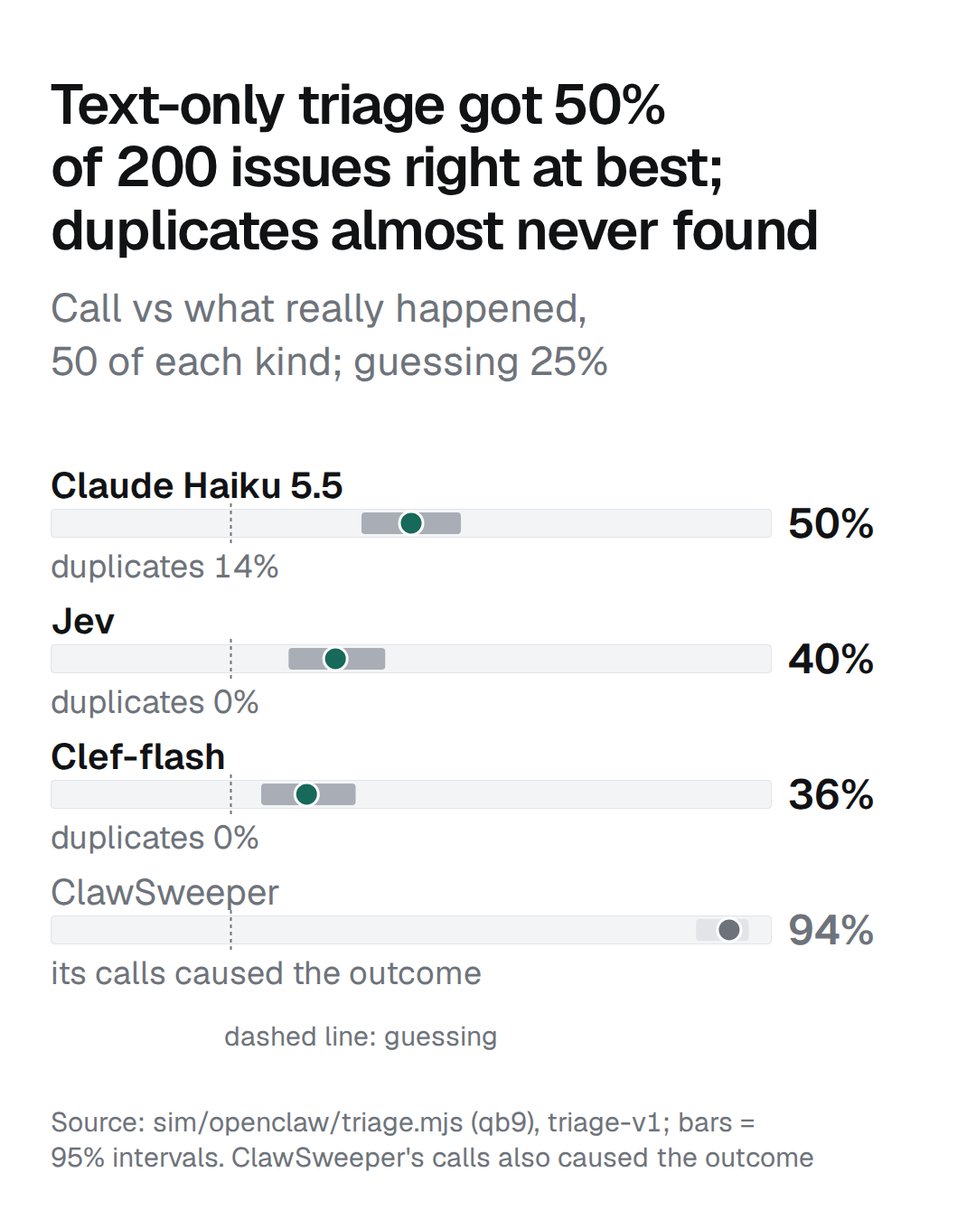
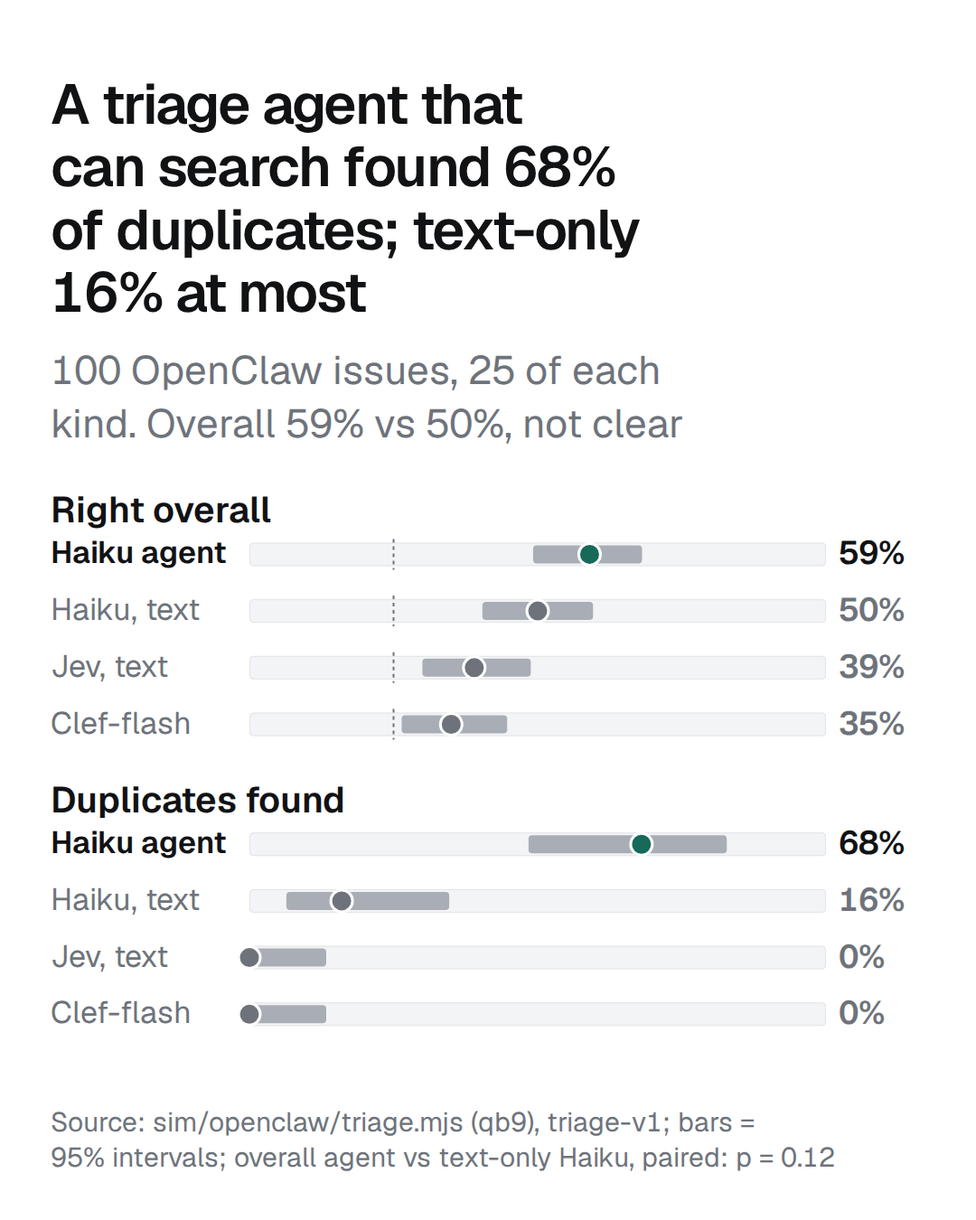
OpenClaw triage chart: like for like on the agent's 100 issues (on_agent_subset)
Headline the solid part: the searching agent found 68% of duplicates vs 16% at most for
text-only triage; overall 59% vs 50% is shown as not a clear difference (paired p = 0.12).

diff --git a/docs/openclaw/charts/index.html b/docs/openclaw/charts/index.html
@@ -56,10 +56,10 @@ footer { margin-top: 56px; color: var(--dim); font-size: 13px; }
 <p class="files">Source: docs/openclaw/data/breaks-summary.json. Files: <a href="openclaw-breaks-1920x1080-dark.png">1920x1080 dark</a> <a href="openclaw-breaks-1920x1080-light.png">1920x1080 light</a> <a href="openclaw-breaks-1080x1350-dark.png">1080x1350 dark</a> <a href="openclaw-breaks-1080x1350-light.png">1080x1350 light</a></p></details>
 </section>
 <section id="openclaw-triage" aria-labelledby="openclaw-triage-h">
-<h2 id="openclaw-triage-h" hidden>Text-only triage got 50% of 200 OpenClaw issues right at best; duplicates were almost never found</h2>
-<div class="L"><svg xmlns="http://www.w3.org/2000/svg" style="aspect-ratio:1920/1080" viewBox="0 0 1920 1080" role="img" aria-label="Text-only triage got 50% of 200 OpenClaw issues right at best; duplicates were almost never found" font-family="Geist, 'Instrument Sans', system-ui, sans-serif"><rect width="1920" height="1080" fill="var(--bg)"/><text x="160" y="154.4" font-size="64" font-weight="600" fill="var(--fg)" letter-spacing="-1.6" style="font-variant-numeric:tabular-nums">Text-only triage got 50% of 200 OpenClaw issues right at</text><text x="160" y="226.08" font-size="64" font-weight="600" fill="var(--fg)" letter-spacing="-1.6" style="font-variant-numeric:tabular-nums">best; duplicates were almost never found</text><text x="160" y="302.08000000000004" font-size="40" font-weight="400" fill="var(--dim)" style="font-variant-numeric:tabular-nums">Call vs what really happened (duplicate, close, fix, decision: 50 each); guessing gets 25%</text><text x="160" y="403.48" font-size="40" font-weight="600" fill="var(--fg)" style="font-variant-numeric:tabular-nums">Claude Haiku 5.5</text><rect x="580" y="372.08000000000004" width="640" height="32" rx="4" fill="var(--card)"/><rect x="580.5" y="372.58000000000004" width="639" height="31" rx="4" fill="none" stroke="var(--line)"/><line x1="740" x2="740" y1="366.08000000000004" y2="410.08000000000004" stroke="var(--dim)" stroke-width="2" stroke-dasharray="4 4"/><rect x="855.8399999999999" y="376.08000000000004" width="88.31999999999996" height="24" rx="4" fill="var(--bar)"><title>Claude Haiku 5.5: 50% (43-57%)</title></rect><circle cx="900" cy="388.08000000000004" r="13" fill="var(--acc)" stroke="var(--bg)" stroke-width="3"/><text x="1238" y="402.78000000000003" font-size="42" font-weight="600" fill="var(--fg)" style="font-variant-numeric:tabular-nums">50%</text><text x="1360" y="399.98" font-size="34" font-weight="400" fill="var(--dim)" style="font-variant-numeric:tabular-nums">duplicates 14%</text><text x="160" y="511.48" font-size="40" font-weight="600" fill="var(--fg)" style="font-variant-numeric:tabular-nums">Jev</text><rect x="580" y="480.08000000000004" width="640" height="32" rx="4" fill="var(--card)"/><rect x="580.5" y="480.58000000000004" width="639" height="31" rx="4" fill="none" stroke="var(--line)"/><line x1="740" x2="740" y1="474.08000000000004" y2="518.08" stroke="var(--dim)" stroke-width="2" stroke-dasharray="4 4"/><rect x="791.2" y="484.08000000000004" width="85.76" height="24" rx="4" fill="var(--bar)"><title>Jev: 40% (33-46%)</title></rect><circle cx="832.8" cy="496.08000000000004" r="13" fill="var(--acc)" stroke="var(--bg)" stroke-width="3"/><text x="1238" y="510.78000000000003" font-size="42" font-weight="600" fill="var(--fg)" style="font-variant-numeric:tabular-nums">40%</text><text x="1360" y="507.98" font-size="34" font-weight="400" fill="var(--dim)" style="font-variant-numeric:tabular-nums">duplicates 0%</text><text x="160" y="619.48" font-size="40" font-weight="600" fill="var(--fg)" style="font-variant-numeric:tabular-nums">Clef-flash</text><rect x="580" y="588.08" width="640" height="32" rx="4" fill="var(--card)"/><rect x="580.5" y="588.58" width="639" height="31" rx="4" fill="none" stroke="var(--line)"/><line x1="740" x2="740" y1="582.08" y2="626.08" stroke="var(--dim)" stroke-width="2" stroke-dasharray="4 4"/><rect x="766.88" y="592.08" width="83.84" height="24" rx="4" fill="var(--bar)"><title>Clef-flash: 36% (29-42%)</title></rect><circle cx="807.2" cy="604.08" r="13" fill="var(--acc)" stroke="var(--bg)" stroke-width="3"/><text x="1238" y="618.7800000000001" font-size="42" font-weight="600" fill="var(--fg)" style="font-variant-numeric:tabular-nums">36%</text><text x="1360" y="615.98" font-size="34" font-weight="400" fill="var(--dim)" style="font-variant-numeric:tabular-nums">duplicates 0%</text><text x="160" y="727.48" font-size="40" font-weight="400" fill="var(--dim)" style="font-variant-numeric:tabular-nums">ClawSweeper</text><rect x="580" y="696.08" width="640" height="32" rx="4" fill="var(--card)"/><rect x="580.5" y="696.58" width="639" height="31" rx="4" fill="none" stroke="var(--line)"/><line x1="740" x2="740" y1="690.08" y2="734.08" stroke="var(--dim)" stroke-width="2" stroke-dasharray="4 4"/><rect x="1152.8" y="700.08" width="46.71999999999997" height="24" rx="4" fill="var(--line)"><title>ClawSweeper: 94% (90-97%)</title></rect><circle cx="1182.24" cy="712.08" r="13" fill="var(--dim)" stroke="var(--bg)" stroke-width="3"/><text x="1238" y="726.7800000000001" font-size="42" font-weight="600" fill="var(--dim)" style="font-variant-numeric:tabular-nums">94%</text><text x="1360" y="723.98" font-size="34" font-weight="400" fill="var(--dim)" style="font-variant-numeric:tabular-nums">its calls caused the outcome</text><text x="732" y="764.08" font-size="26" font-weight="400" fill="var(--dim)" style="font-variant-numeric:tabular-nums">dashed line: guessing</text><text x="160" y="840" font-size="26" font-weight="400" fill="var(--dim)" style="font-variant-numeric:tabular-nums">Source: sim/openclaw/triage.mjs (qb9), triage-v1; bars = 95% intervals. ClawSweeper's calls also caused the outcome</text></svg></div><div class="P"><svg xmlns="http://www.w3.org/2000/svg" style="aspect-ratio:1080/1350" viewBox="0 0 1080 1350" role="img" aria-label="Text-only triage got 50% of 200 OpenClaw issues right at best; duplicates were almost never found" font-family="Geist, 'Instrument Sans', system-ui, sans-serif"><rect width="1080" height="1350" fill="var(--bg)"/><text x="56" y="136.7" font-size="62" font-weight="600" fill="var(--fg)" letter-spacing="-1.6" style="font-variant-numeric:tabular-nums">Text-only triage got 50%</text><text x="56" y="206.14" font-size="62" font-weight="600" fill="var(--fg)" letter-spacing="-1.6" style="font-variant-numeric:tabular-nums">of 200 issues right at best;</text><text x="56" y="275.58000000000004" font-size="62" font-weight="600" fill="var(--fg)" letter-spacing="-1.6" style="font-variant-numeric:tabular-nums">duplicates almost never found</text><text x="56" y="355.58000000000004" font-size="44" font-weight="400" fill="var(--dim)" style="font-variant-numeric:tabular-nums">Call vs what really happened,</text><text x="56" y="414.98" font-size="44" font-weight="400" fill="var(--dim)" style="font-variant-numeric:tabular-nums">50 of each kind; guessing 25%</text><text x="56" y="550.98" font-size="40" font-weight="600" fill="var(--fg)" style="font-variant-numeric:tabular-nums">Claude Haiku 5.5</text><rect x="56" y="562.98" width="798" height="32" rx="4" fill="var(--card)"/><rect x="56.5" y="563.48" width="797" height="31" rx="4" fill="none" stroke="var(--line)"/><line x1="255.5" x2="255.5" y1="556.98" y2="600.98" stroke="var(--dim)" stroke-width="2" stroke-dasharray="4 4"/><rect x="399.938" y="566.98" width="110.12399999999997" height="24" rx="4" fill="var(--bar)"><title>Claude Haiku 5.5: 50% (43-57%)</title></rect><circle cx="455" cy="578.98" r="13" fill="var(--acc)" stroke="var(--bg)" stroke-width="3"/><text x="872" y="595.08" font-size="46" font-weight="600" fill="var(--fg)" style="font-variant-numeric:tabular-nums">50%</text><text x="56" y="638.98" font-size="36" font-weight="400" fill="var(--dim)" style="font-variant-numeric:tabular-nums">duplicates 14%</text><text x="56" y="700.98" font-size="40" font-weight="600" fill="var(--fg)" style="font-variant-numeric:tabular-nums">Jev</text><rect x="56" y="712.98" width="798" height="32" rx="4" fill="var(--card)"/><rect x="56.5" y="713.48" width="797" height="31" rx="4" fill="none" stroke="var(--line)"/><line x1="255.5" x2="255.5" y1="706.98" y2="750.98" stroke="var(--dim)" stroke-width="2" stroke-dasharray="4 4"/><rect x="319.34000000000003" y="716.98" width="106.932" height="24" rx="4" fill="var(--bar)"><title>Jev: 40% (33-46%)</title></rect><circle cx="371.21000000000004" cy="728.98" r="13" fill="var(--acc)" stroke="var(--bg)" stroke-width="3"/><text x="872" y="745.08" font-size="46" font-weight="600" fill="var(--fg)" style="font-variant-numeric:tabular-nums">40%</text><text x="56" y="788.98" font-size="36" font-weight="400" fill="var(--dim)" style="font-variant-numeric:tabular-nums">duplicates 0%</text><text x="56" y="850.98" font-size="40" font-weight="600" fill="var(--fg)" style="font-variant-numeric:tabular-nums">Clef-flash</text><rect x="56" y="862.98" width="798" height="32" rx="4" fill="var(--card)"/><rect x="56.5" y="863.48" width="797" height="31" rx="4" fill="none" stroke="var(--line)"/><line x1="255.5" x2="255.5" y1="856.98" y2="900.98" stroke="var(--dim)" stroke-width="2" stroke-dasharray="4 4"/><rect x="289.01599999999996" y="866.98" width="104.53800000000001" height="24" rx="4" fill="var(--bar)"><title>Clef-flash: 36% (29-42%)</title></rect><circle cx="339.28999999999996" cy="878.98" r="13" fill="var(--acc)" stroke="var(--bg)" stroke-width="3"/><text x="872" y="895.08" font-size="46" font-weight="600" fill="var(--fg)" style="font-variant-numeric:tabular-nums">36%</text><text x="56" y="938.98" font-size="36" font-weight="400" fill="var(--dim)" style="font-variant-numeric:tabular-nums">duplicates 0%</text><text x="56" y="1000.98" font-size="40" font-weight="400" fill="var(--dim)" style="font-variant-numeric:tabular-nums">ClawSweeper</text><rect x="56" y="1012.98" width="798" height="32" rx="4" fill="var(--card)"/><rect x="56.5" y="1013.48" width="797" height="31" rx="4" fill="none" stroke="var(--line)"/><line x1="255.5" x2="255.5" y1="1006.98" y2="1050.98" stroke="var(--dim)" stroke-width="2" stroke-dasharray="4 4"/><rect x="770.21" y="1016.98" width="58.25399999999996" height="24" rx="4" fill="var(--line)"><title>ClawSweeper: 94% (90-97%)</title></rect><circle cx="806.918" cy="1028.98" r="13" fill="var(--dim)" stroke="var(--bg)" stroke-width="3"/><text x="872" y="1045.08" font-size="46" font-weight="600" fill="var(--dim)" style="font-variant-numeric:tabular-nums">94%</text><text x="56" y="1088.98" font-size="36" font-weight="400" fill="var(--dim)" style="font-variant-numeric:tabular-nums">its calls caused the outcome</text><text x="247.5" y="1156.98" font-size="30" font-weight="400" fill="var(--dim)" style="font-variant-numeric:tabular-nums">dashed line: guessing</text><text x="56" y="1252" font-size="30" font-weight="400" fill="var(--dim)" style="font-variant-numeric:tabular-nums">Source: sim/openclaw/triage.mjs (qb9), triage-v1; bars =</text><text x="56" y="1291" font-size="30" font-weight="400" fill="var(--dim)" style="font-variant-numeric:tabular-nums">95% intervals. ClawSweeper's calls also caused the outcome</text></svg></div>
-<details><summary>The numbers</summary><table><tr><th>classifier</th><th>matched the outcome</th><th>95% interval</th><th>duplicates found</th><th>median time</th><th>cost for 200</th></tr><tr><td>Claude Haiku 5.5</td><td>50%</td><td>43-57%</td><td>14%</td><td>3075 ms</td><td>$0.0727</td></tr><tr><td>Jev</td><td>40%</td><td>33-46%</td><td>0%</td><td>253 ms</td><td>$0.0113</td></tr><tr><td>Clef-flash</td><td>36%</td><td>29-42%</td><td>0%</td><td>421 ms</td><td>Workers AI via desk-bench gateway; not priced here</td></tr><tr><td>ClawSweeper (not independent)</td><td>94%</td><td>90-97%</td><td></td><td></td><td></td></tr></table>
-<p class="files">Source: docs/openclaw/data/triage-score.json. Files: <a href="openclaw-triage-1920x1080-dark.png">1920x1080 dark</a> <a href="openclaw-triage-1920x1080-light.png">1920x1080 light</a> <a href="openclaw-triage-1080x1350-dark.png">1080x1350 dark</a> <a href="openclaw-triage-1080x1350-light.png">1080x1350 light</a></p></details>
+<h2 id="openclaw-triage-h" hidden>A triage agent that can search found 68% of duplicates; text-only triage found 16% at most</h2>
+<div class="L"><svg xmlns="http://www.w3.org/2000/svg" style="aspect-ratio:1920/1080" viewBox="0 0 1920 1080" role="img" aria-label="A triage agent that can search found 68% of duplicates; text-only triage found 16% at most" font-family="Geist, 'Instrument Sans', system-ui, sans-serif"><rect width="1920" height="1080" fill="var(--bg)"/><text x="160" y="154.4" font-size="64" font-weight="600" fill="var(--fg)" letter-spacing="-1.6" style="font-variant-numeric:tabular-nums">A triage agent that can search found 68% of duplicates;</text><text x="160" y="226.08" font-size="64" font-weight="600" fill="var(--fg)" letter-spacing="-1.6" style="font-variant-numeric:tabular-nums">text-only triage found 16% at most</text><text x="160" y="302.08000000000004" font-size="40" font-weight="400" fill="var(--dim)" style="font-variant-numeric:tabular-nums">100 OpenClaw issues, 25 of each kind. Overall it was right 59% vs 50%: not a clear difference</text><text x="670" y="388.08000000000004" font-size="36" font-weight="600" fill="var(--fg)" style="font-variant-numeric:tabular-nums">Right overall</text><text x="160" y="445.68000000000006" font-size="36" font-weight="600" fill="var(--fg)" style="font-variant-numeric:tabular-nums">Haiku 5.5 agent (searches)</text><rect x="670" y="418.08000000000004" width="395" height="30" rx="4" fill="var(--card)"/><rect x="670.5" y="418.58000000000004" width="394" height="29" rx="4" fill="none" stroke="var(--line)"/><line x1="768.75" x2="768.75" y1="412.08000000000004" y2="454.08000000000004" stroke="var(--dim)" stroke-width="2" stroke-dasharray="4 4"/><rect x="864.34" y="422.08000000000004" width="74.65500000000003" height="22" rx="4" fill="var(--bar)"><title>Haiku 5.5 agent (searches), right overall: 59% (49%-68%)</title></rect><circle cx="903.05" cy="433.08000000000004" r="12" fill="var(--acc)" stroke="var(--bg)" stroke-width="3"/><text x="1081" y="447.08000000000004" font-size="40" font-weight="600" fill="var(--fg)" style="font-variant-numeric:tabular-nums">59%</text><text x="160" y="531.6800000000001" font-size="36" font-weight="400" fill="var(--dim)" style="font-variant-numeric:tabular-nums">Haiku 5.5, text only</text><rect x="670" y="504.08000000000004" width="395" height="30" rx="4" fill="var(--card)"/><rect x="670.5" y="504.58000000000004" width="394" height="29" rx="4" fill="none" stroke="var(--line)"/><line x1="768.75" x2="768.75" y1="498.08000000000004" y2="540.08" stroke="var(--dim)" stroke-width="2" stroke-dasharray="4 4"/><rect x="829.58" y="508.08000000000004" width="75.83999999999997" height="22" rx="4" fill="var(--bar)"><title>Haiku 5.5, text only, right overall: 50% (40%-60%)</title></rect><circle cx="867.5" cy="519.08" r="12" fill="var(--dim)" stroke="var(--bg)" stroke-width="3"/><text x="1081" y="533.08" font-size="40" font-weight="600" fill="var(--dim)" style="font-variant-numeric:tabular-nums">50%</text><text x="160" y="617.6800000000001" font-size="36" font-weight="400" fill="var(--dim)" style="font-variant-numeric:tabular-nums">Jev, text only</text><rect x="670" y="590.08" width="395" height="30" rx="4" fill="var(--card)"/><rect x="670.5" y="590.58" width="394" height="29" rx="4" fill="none" stroke="var(--line)"/><line x1="768.75" x2="768.75" y1="584.08" y2="626.08" stroke="var(--dim)" stroke-width="2" stroke-dasharray="4 4"/><rect x="788.5" y="594.08" width="74.26" height="22" rx="4" fill="var(--bar)"><title>Jev, text only, right overall: 39% (30%-49%)</title></rect><circle cx="824.05" cy="605.08" r="12" fill="var(--dim)" stroke="var(--bg)" stroke-width="3"/><text x="1081" y="619.08" font-size="40" font-weight="600" fill="var(--dim)" style="font-variant-numeric:tabular-nums">39%</text><text x="160" y="703.6800000000001" font-size="36" font-weight="400" fill="var(--dim)" style="font-variant-numeric:tabular-nums">Clef-flash, text only</text><rect x="670" y="676.08" width="395" height="30" rx="4" fill="var(--card)"/><rect x="670.5" y="676.58" width="394" height="29" rx="4" fill="none" stroke="var(--line)"/><line x1="768.75" x2="768.75" y1="670.08" y2="712.08" stroke="var(--dim)" stroke-width="2" stroke-dasharray="4 4"/><rect x="774.28" y="680.08" width="72.285" height="22" rx="4" fill="var(--bar)"><title>Clef-flash, text only, right overall: 35% (26%-45%)</title></rect><circle cx="808.25" cy="691.08" r="12" fill="var(--dim)" stroke="var(--bg)" stroke-width="3"/><text x="1081" y="705.08" font-size="40" font-weight="600" fill="var(--dim)" style="font-variant-numeric:tabular-nums">35%</text><text x="1245" y="388.08000000000004" font-size="36" font-weight="600" fill="var(--fg)" style="font-variant-numeric:tabular-nums">Duplicates found</text><rect x="1245" y="418.08000000000004" width="395" height="30" rx="4" fill="var(--card)"/><rect x="1245.5" y="418.58000000000004" width="394" height="29" rx="4" fill="none" stroke="var(--line)"/><rect x="1436.219159251578" y="422.08000000000004" width="135.82114005670195" height="22" rx="4" fill="var(--bar)"><title>Haiku 5.5 agent (searches), duplicates found: 68% (48%-83%)</title></rect><circle cx="1513.6" cy="433.08000000000004" r="12" fill="var(--acc)" stroke="var(--bg)" stroke-width="3"/><text x="1656" y="447.08000000000004" font-size="40" font-weight="600" fill="var(--fg)" style="font-variant-numeric:tabular-nums">68%</text><rect x="1245" y="504.08000000000004" width="395" height="30" rx="4" fill="var(--card)"/><rect x="1245.5" y="504.58000000000004" width="394" height="29" rx="4" fill="none" stroke="var(--line)"/><rect x="1270.2932230538831" y="508.08000000000004" width="111.59013216805768" height="22" rx="4" fill="var(--bar)"><title>Haiku 5.5, text only, duplicates found: 16% (6%-35%)</title></rect><circle cx="1308.2" cy="519.08" r="12" fill="var(--dim)" stroke="var(--bg)" stroke-width="3"/><text x="1656" y="533.08" font-size="40" font-weight="600" fill="var(--dim)" style="font-variant-numeric:tabular-nums">16%</text><rect x="1245" y="590.08" width="395" height="30" rx="4" fill="var(--card)"/><rect x="1245.5" y="590.58" width="394" height="29" rx="4" fill="none" stroke="var(--line)"/><rect x="1245" y="594.08" width="52.6126151115056" height="22" rx="4" fill="var(--bar)"><title>Jev, text only, duplicates found: 0% (0%-13%)</title></rect><circle cx="1245" cy="605.08" r="12" fill="var(--dim)" stroke="var(--bg)" stroke-width="3"/><text x="1656" y="619.08" font-size="40" font-weight="600" fill="var(--dim)" style="font-variant-numeric:tabular-nums">0%</text><rect x="1245" y="676.08" width="395" height="30" rx="4" fill="var(--card)"/><rect x="1245.5" y="676.58" width="394" height="29" rx="4" fill="none" stroke="var(--line)"/><rect x="1245" y="680.08" width="52.6126151115056" height="22" rx="4" fill="var(--bar)"><title>Clef-flash, text only, duplicates found: 0% (0%-13%)</title></rect><circle cx="1245" cy="691.08" r="12" fill="var(--dim)" stroke="var(--bg)" stroke-width="3"/><text x="1656" y="705.08" font-size="40" font-weight="600" fill="var(--dim)" style="font-variant-numeric:tabular-nums">0%</text><text x="670" y="782.08" font-size="26" font-weight="400" fill="var(--dim)" style="font-variant-numeric:tabular-nums">dashed: guessing (one in four)</text><text x="160" y="840" font-size="26" font-weight="400" fill="var(--dim)" style="font-variant-numeric:tabular-nums">Source: sim/openclaw/triage.mjs (qb9), triage-v1; bars = 95% intervals; overall agent vs text-only Haiku, paired: p = 0.12</text></svg></div><div class="P"><svg xmlns="http://www.w3.org/2000/svg" style="aspect-ratio:1080/1350" viewBox="0 0 1080 1350" role="img" aria-label="A triage agent that can search found 68% of duplicates; text-only triage found 16% at most" font-family="Geist, 'Instrument Sans', system-ui, sans-serif"><rect width="1080" height="1350" fill="var(--bg)"/><text x="56" y="136.7" font-size="62" font-weight="600" fill="var(--fg)" letter-spacing="-1.6" style="font-variant-numeric:tabular-nums">A triage agent that</text><text x="56" y="206.14" font-size="62" font-weight="600" fill="var(--fg)" letter-spacing="-1.6" style="font-variant-numeric:tabular-nums">can search found 68%</text><text x="56" y="275.58000000000004" font-size="62" font-weight="600" fill="var(--fg)" letter-spacing="-1.6" style="font-variant-numeric:tabular-nums">of duplicates; text-only</text><text x="56" y="345.02" font-size="62" font-weight="600" fill="var(--fg)" letter-spacing="-1.6" style="font-variant-numeric:tabular-nums">16% at most</text><text x="56" y="425.02000000000004" font-size="44" font-weight="400" fill="var(--dim)" style="font-variant-numeric:tabular-nums">100 OpenClaw issues, 25 of each</text><text x="56" y="484.4200000000001" font-size="44" font-weight="400" fill="var(--dim)" style="font-variant-numeric:tabular-nums">kind. Overall 59% vs 50%, not clear</text><text x="56" y="578.4200000000001" font-size="40" font-weight="600" fill="var(--fg)" style="font-variant-numeric:tabular-nums">Right overall</text><text x="56" y="623.4200000000001" font-size="34" font-weight="600" fill="var(--fg)" style="font-variant-numeric:tabular-nums">Haiku agent</text><rect x="276" y="600.4200000000001" width="638" height="26" rx="4" fill="var(--card)"/><rect x="276.5" y="600.9200000000001" width="637" height="25" rx="4" fill="none" stroke="var(--line)"/><line x1="435.5" x2="435.5" y1="596.4200000000001" y2="630.4200000000001" stroke="var(--dim)" stroke-width="2" stroke-dasharray="4 4"/><rect x="589.896" y="603.4200000000001" width="120.58200000000004" height="20" rx="4" fill="var(--bar)"></rect><circle cx="652.42" cy="613.4200000000001" r="12" fill="var(--acc)" stroke="var(--bg)" stroke-width="3"/><text x="928" y="624.4200000000001" font-size="36" font-weight="600" fill="var(--fg)" style="font-variant-numeric:tabular-nums">59%</text><text x="56" y="686.1175000000001" font-size="34" font-weight="400" fill="var(--dim)" style="font-variant-numeric:tabular-nums">Haiku, text</text><rect x="276" y="663.1175000000001" width="638" height="26" rx="4" fill="var(--card)"/><rect x="276.5" y="663.6175000000001" width="637" height="25" rx="4" fill="none" stroke="var(--line)"/><line x1="435.5" x2="435.5" y1="659.1175000000001" y2="693.1175000000001" stroke="var(--dim)" stroke-width="2" stroke-dasharray="4 4"/><rect x="533.752" y="666.1175000000001" width="122.49599999999997" height="20" rx="4" fill="var(--bar)"></rect><circle cx="595" cy="676.1175000000001" r="12" fill="var(--dim)" stroke="var(--bg)" stroke-width="3"/><text x="928" y="687.1175000000001" font-size="36" font-weight="600" fill="var(--dim)" style="font-variant-numeric:tabular-nums">50%</text><text x="56" y="748.815" font-size="34" font-weight="400" fill="var(--dim)" style="font-variant-numeric:tabular-nums">Jev, text</text><rect x="276" y="725.815" width="638" height="26" rx="4" fill="var(--card)"/><rect x="276.5" y="726.315" width="637" height="25" rx="4" fill="none" stroke="var(--line)"/><line x1="435.5" x2="435.5" y1="721.815" y2="755.815" stroke="var(--dim)" stroke-width="2" stroke-dasharray="4 4"/><rect x="467.4" y="728.815" width="119.944" height="20" rx="4" fill="var(--bar)"></rect><circle cx="524.82" cy="738.815" r="12" fill="var(--dim)" stroke="var(--bg)" stroke-width="3"/><text x="928" y="749.815" font-size="36" font-weight="600" fill="var(--dim)" style="font-variant-numeric:tabular-nums">39%</text><text x="56" y="811.5125" font-size="34" font-weight="400" fill="var(--dim)" style="font-variant-numeric:tabular-nums">Clef-flash</text><rect x="276" y="788.5125" width="638" height="26" rx="4" fill="var(--card)"/><rect x="276.5" y="789.0125" width="637" height="25" rx="4" fill="none" stroke="var(--line)"/><line x1="435.5" x2="435.5" y1="784.5125" y2="818.5125" stroke="var(--dim)" stroke-width="2" stroke-dasharray="4 4"/><rect x="444.432" y="791.5125" width="116.75399999999999" height="20" rx="4" fill="var(--bar)"></rect><circle cx="499.29999999999995" cy="801.5125" r="12" fill="var(--dim)" stroke="var(--bg)" stroke-width="3"/><text x="928" y="812.5125" font-size="36" font-weight="600" fill="var(--dim)" style="font-variant-numeric:tabular-nums">35%</text><text x="56" y="899.21" font-size="40" font-weight="600" fill="var(--fg)" style="font-variant-numeric:tabular-nums">Duplicates found</text><text x="56" y="944.21" font-size="34" font-weight="600" fill="var(--fg)" style="font-variant-numeric:tabular-nums">Haiku agent</text><rect x="276" y="921.21" width="638" height="26" rx="4" fill="var(--card)"/><rect x="276.5" y="921.71" width="637" height="25" rx="4" fill="none" stroke="var(--line)"/><rect x="584.8552496265995" y="924.21" width="219.37693001563505" height="20" rx="4" fill="var(--bar)"></rect><circle cx="709.84" cy="934.21" r="12" fill="var(--acc)" stroke="var(--bg)" stroke-width="3"/><text x="928" y="945.21" font-size="36" font-weight="600" fill="var(--fg)" style="font-variant-numeric:tabular-nums">68%</text><text x="56" y="1006.9075" font-size="34" font-weight="400" fill="var(--dim)" style="font-variant-numeric:tabular-nums">Haiku, text</text><rect x="276" y="983.9075" width="638" height="26" rx="4" fill="var(--card)"/><rect x="276.5" y="984.4075" width="637" height="25" rx="4" fill="none" stroke="var(--line)"/><rect x="316.85335774272755" y="986.9075" width="180.2392514511919" height="20" rx="4" fill="var(--bar)"></rect><circle cx="378.08" cy="996.9075" r="12" fill="var(--dim)" stroke="var(--bg)" stroke-width="3"/><text x="928" y="1007.9075" font-size="36" font-weight="600" fill="var(--dim)" style="font-variant-numeric:tabular-nums">16%</text><text x="56" y="1069.605" font-size="34" font-weight="400" fill="var(--dim)" style="font-variant-numeric:tabular-nums">Jev, text</text><rect x="276" y="1046.605" width="638" height="26" rx="4" fill="var(--card)"/><rect x="276.5" y="1047.105" width="637" height="25" rx="4" fill="none" stroke="var(--line)"/><rect x="276" y="1049.605" width="84.97936314212802" height="20" rx="4" fill="var(--bar)"></rect><circle cx="276" cy="1059.605" r="12" fill="var(--dim)" stroke="var(--bg)" stroke-width="3"/><text x="928" y="1070.605" font-size="36" font-weight="600" fill="var(--dim)" style="font-variant-numeric:tabular-nums">0%</text><text x="56" y="1132.3025" font-size="34" font-weight="400" fill="var(--dim)" style="font-variant-numeric:tabular-nums">Clef-flash</text><rect x="276" y="1109.3025" width="638" height="26" rx="4" fill="var(--card)"/><rect x="276.5" y="1109.8025" width="637" height="25" rx="4" fill="none" stroke="var(--line)"/><rect x="276" y="1112.3025" width="84.97936314212802" height="20" rx="4" fill="var(--bar)"></rect><circle cx="276" cy="1122.3025" r="12" fill="var(--dim)" stroke="var(--bg)" stroke-width="3"/><text x="928" y="1133.3025" font-size="36" font-weight="600" fill="var(--dim)" style="font-variant-numeric:tabular-nums">0%</text><text x="56" y="1252" font-size="30" font-weight="400" fill="var(--dim)" style="font-variant-numeric:tabular-nums">Source: sim/openclaw/triage.mjs (qb9), triage-v1; bars =</text><text x="56" y="1291" font-size="30" font-weight="400" fill="var(--dim)" style="font-variant-numeric:tabular-nums">95% intervals; overall agent vs text-only Haiku, paired: p = 0.12</text></svg></div>
+<details><summary>The numbers</summary><table><tr><th>classifier</th><th>right overall</th><th>95% interval</th><th>duplicates found</th><th>closes</th><th>fixes</th><th>decisions</th></tr><tr><td>Haiku 5.5 agent (searches)</td><td>59%</td><td>49%-68%</td><td>17 of 25</td><td>28%</td><td>72%</td><td>68%</td></tr><tr><td>Haiku 5.5, text only</td><td>50%</td><td>40%-60%</td><td>4 of 25</td><td>20%</td><td>88%</td><td>76%</td></tr><tr><td>Jev, text only</td><td>39%</td><td>30%-49%</td><td>0 of 25</td><td>20%</td><td>88%</td><td>48%</td></tr><tr><td>Clef-flash, text only</td><td>35%</td><td>26%-45%</td><td>0 of 25</td><td>12%</td><td>96%</td><td>32%</td></tr><tr><td>agent cost for 100</td><td>$0.121 API-equivalent</td><td>3 turns (median)</td><td></td><td></td><td></td><td></td></tr></table>
+<p class="files">Source: docs/openclaw/data/triage-score.json: on_agent_subset (+ agent_detail). Files: <a href="openclaw-triage-1920x1080-dark.png">1920x1080 dark</a> <a href="openclaw-triage-1920x1080-light.png">1920x1080 light</a> <a href="openclaw-triage-1080x1350-dark.png">1080x1350 dark</a> <a href="openclaw-triage-1080x1350-light.png">1080x1350 light</a></p></details>
 </section>
 <footer>Built by docs/openclaw/charts/build.mjs from docs/openclaw/data, 2026-10-08.</footer>
 </main></body></html>
